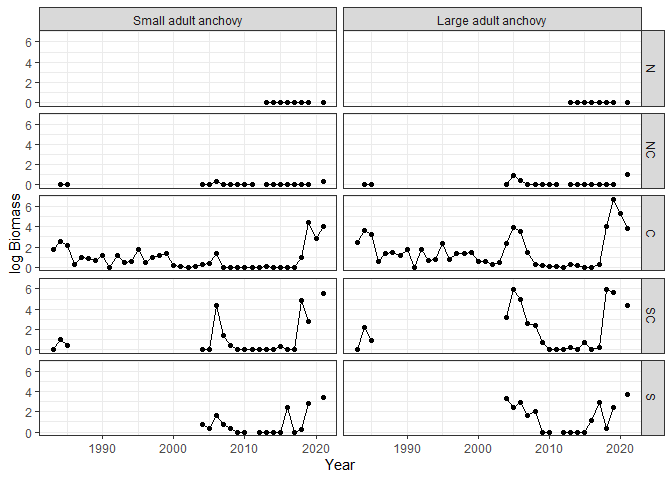
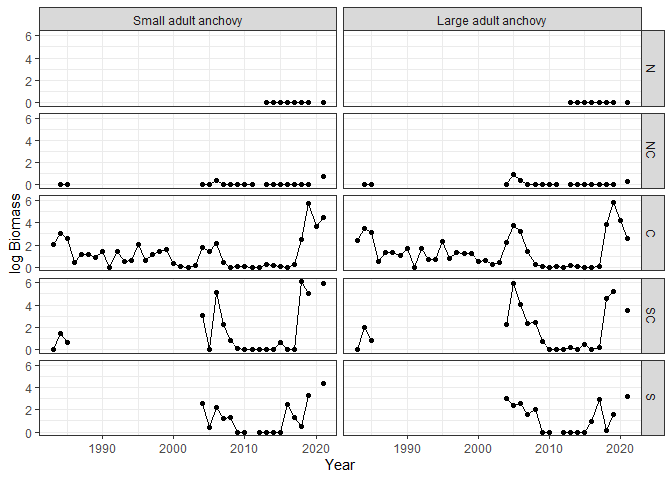
fix typos

diff --git a/README.md b/README.md
@@ -17,7 +17,7 @@ To install the latest version of the package:
 
 ``` r
 install.packages("devtools") #if required
-devtools::install_github("tanyalrogers/GPEDM")
+devtools::install_github("tanyalrogers/RREAS")
 ```
 
 ## Loading data
@@ -35,7 +35,7 @@ will be loaded to the global environment.
 
 The default behavior is to load just the RREAS data
 (`datasets = "RREAS"`), with HAULSTANDARD containing only active
-stations (`activestationsonly = T`):
+stations (`activestationsonly = TRUE`):
 
 ``` r
 library(RREAS)
@@ -50,21 +50,21 @@ ls(name = .GlobalEnv) #list objects in your workspace
 ```
 
 Currently, the krill lengths are not in the database, so must be
-supplied as a separate file. This file is *not necessary*, however,
+supplied as a separate file. This file is *not necessary* however,
 unless you want to get krill biomass or length distributions. Just omit
 this argument if you don’t have the file.
 
 To load data from multiple surveys, specify which ones under `datasets`.
 If you want to include non-active stations in HAULSTANDARD, just set
-(`activestationsonly = F`). ACTIVE is a column in HAULSTANDARD and can
-always be used to subset later.
+(`activestationsonly = FALSE`). ACTIVE is a column in HAULSTANDARD and
+can always be used to subset later.
 
 ``` r
 #replace the file paths with those for your machine
 load_mdb(mdb_path="E:/Documents/NMFS laptop/Rockfish/RREAS/Survey data/juv_cruise_backup27JAN21.mdb",
          krill_len_path="E:/Documents/NMFS laptop/Rockfish/Index generation/length weight/krill_lengths.csv",
          datasets = c("RREAS","ADAMS","PWCC","NWFSC"),
-         activestationsonly = T)
+         activestationsonly = TRUE)
 #> Data loaded.
 ls(name = .GlobalEnv) #list objects in your workspace
 #>  [1] "AGE"                "CATCH"              "CATCH_ADAMS"       
@@ -122,18 +122,18 @@ anchovytable
 #> 4     209        A Total Anchovy
 ```
 
-If you wanted to split Anchovy into two size classes, here’s how you
-might do that:
+If you wanted to split adult Anchovy into two size classes, here’s how
+you might do that:
 
 ``` r
 anchovytable_len <- data.frame(SPECIES=209, MATURITY="A",
                                NAME=c("Small adult anchovy", "Large adult anchovy"),
-                               MINLEN=c(90,110),
-                               MAXLEN=c(110,NA))
+                               MINLEN=c(90,120),
+                               MAXLEN=c(120,NA))
 anchovytable_len
 #>   SPECIES MATURITY                NAME MINLEN MAXLEN
-#> 1     209        A Small adult anchovy     90    110
-#> 2     209        A Large adult anchovy    110     NA
+#> 1     209        A Small adult anchovy     90    120
+#> 2     209        A Large adult anchovy    120     NA
 ```
 
 The package contains some pre-made species tables with common species.
@@ -217,22 +217,23 @@ the 0 represents ‘absent’ or ‘not counted’. Info can be found in the
 SPECIES\_CODES table.
 
 Biomass is only available for species with length-weight regressions.
-See `help(get_lw_regression)` for more info on the regressions are done.
-(The function `get_lw_regression` is used internally, but can be run
-independently if desired.)
+See `help(get_lw_regression)` for more info on how the regressions are
+done. (The function `get_lw_regression` is used internally, but can be
+run independently if desired.)
 
 100 day standardized abundance is only available for species with
 length-age regressions. This includes the rockfish species listed in
-`sptable_rockfish100`, hake (382) and lingcod (448). See
+`sptable_rockfish100`, hake (382), and lingcod (448). See
 `help(get_la_regression)` and `help(age_to_100day)` for more details on
 how the regressions are done. (These functions are also used internally,
 but can be run independently if desired.)
 
-If ask for “biomass” or “100day”, the output will also include TOTAL\_NO
-(abundance) and NMEAS (number of fish measured). If you include length
-constraints, the output table will include additional columns
-NMEAS\_SIZE (number measured in the size range), and NSIZE (total number
-in the size range, which is probably what you want, not TOTAL\_NO).
+If you ask for “biomass” or “100day”, the output will also include
+TOTAL\_NO (abundance) and NMEAS (number of fish measured). If you
+include length constraints, the output table will include additional
+columns NMEAS\_SIZE (number measured in the size range) and NSIZE (total
+number in the size range, which is probably what you want, not
+TOTAL\_NO).
 
 Only one table is outputted, so if you request data from multiple
 datasets, they results will be combined (column SURVEY differentiates
@@ -292,9 +293,9 @@ tail(anchovybiomass_len)
 #> 7037                 1045      C  Davenport      Y Small adult anchovy        0
 #> 7038                   65     SC  Point Sur      Y Small adult anchovy        0
 #>      NMEAS NMEAS_SIZE    NSIZE  BIOMASS
-#> 7033    19         12 308.8421 3442.570
+#> 7033    19         15 386.0526 4623.876
 #> 7034    22          0   0.0000    0.000
-#> 7035    20         12 550.8000 6401.688
+#> 7035    20         15 688.5000 8418.535
 #> 7036     0          0   0.0000    0.000
 #> 7037     0          0   0.0000    0.000
 #> 7038     0          0   0.0000    0.000
@@ -363,74 +364,74 @@ stacked in long format. See `help(get_distributions)` for more details.
 ``` r
 #Size distribution for anchovy
 anchovysizedist <- get_distributions(anchovytable, what = "size")
-tail(anchovysizedist)
-#>       SURVEY CRUISE HAUL_NO YEAR MONTH JDAY           HAUL_DATE STATION
-#> 38509  RREAS   2103     130 2021     6  159 2021-06-08 03:58:01     425
-#> 38510  RREAS   2103      22 2021     5  124 2021-05-04 22:33:18     124
-#> 38511  RREAS   2103      23 2021     5  125 2021-05-05 00:01:49     125
-#> 38512  RREAS   2103      24 2021     5  125 2021-05-05 01:41:27     126
-#> 38513  RREAS   2103      25 2021     5  125 2021-05-05 03:57:50     127
-#> 38514  RREAS   2103      26 2021     5  125 2021-05-05 21:03:12     101
-#>       NET_IN_LATDD NET_IN_LONGDD    LATDD     LONDD BOTTOM_DEPTH
-#> 38509     33.91300     -120.6992 33.91833 -120.7117         1851
-#> 38510     36.97217     -122.3608 36.98333 -122.3750          125
-#> 38511     36.97067     -122.4112 36.98333 -122.4250          286
-#> 38512     36.97233     -122.5807 36.98333 -122.5917          420
-#> 38513     36.97433     -122.7435 36.98333 -122.7583         1050
-#> 38514     36.30717     -121.9562 36.30000 -121.9383           75
-#>       STATION_BOTTOM_DEPTH STRATA       AREA ACTIVE SPECIES MATURITY
-#> 38509                 1848      S San Miguel      Y     209        Y
-#> 38510                  128      C  Davenport      Y     209        Y
-#> 38511                  446      C  Davenport      Y     209        Y
-#> 38512                  432      C  Davenport      Y     209        Y
-#> 38513                 1045      C  Davenport      Y     209        Y
-#> 38514                   65     SC  Point Sur      Y     209        Y
-#>              NAME TOTAL_NO NMEAS EXP SP_NO STD_LENGTH
-#> 38509 YOY Anchovy        0    NA  NA    NA         NA
-#> 38510 YOY Anchovy        0    NA  NA    NA         NA
-#> 38511 YOY Anchovy        0    NA  NA    NA         NA
-#> 38512 YOY Anchovy        0    NA  NA    NA         NA
-#> 38513 YOY Anchovy        0    NA  NA    NA         NA
-#> 38514 YOY Anchovy        0    NA  NA    NA         NA
+head(anchovysizedist)
+#>   SURVEY CRUISE HAUL_NO YEAR MONTH JDAY  HAUL_DATE STATION NET_IN_LATDD
+#> 1  RREAS   8303       7 1983     6  161 1983-06-10     104     36.28833
+#> 2  RREAS   8303      15 1983     6  163 1983-06-12     119     36.85500
+#> 3  RREAS   8303      17 1983     6  164 1983-06-13     114     36.76167
+#> 4  RREAS   8303      18 1983     6  164 1983-06-13     116     36.74667
+#> 5  RREAS   8303      24 1983     6  165 1983-06-14     117     36.70667
+#> 6  RREAS   8303      25 1983     6  165 1983-06-14     113     36.65333
+#>   NET_IN_LONGDD    LATDD     LONDD BOTTOM_DEPTH STATION_BOTTOM_DEPTH STRATA
+#> 1     -122.0833 36.30000 -122.0900          438                  354     SC
+#> 2     -121.9883 36.84667 -121.9833           80                   91      C
+#> 3     -121.8850 36.76667 -121.8667           82                   73      C
+#> 4     -121.9833 36.74000 -121.9767          444                  287      C
+#> 5     -122.1150 36.70000 -122.1083         1828                 1920      C
+#> 6     -122.0533 36.64667 -122.0500         1097                  900      C
+#>                   AREA ACTIVE SPECIES MATURITY          NAME TOTAL_NO NMEAS EXP
+#> 1            Point Sur      Y     209        A Adult Anchovy        0    NA  NA
+#> 2  Monterey Bay Inside      Y     209        A Adult Anchovy      268    NA 268
+#> 3  Monterey Bay Inside      Y     209        A Adult Anchovy       40    NA  40
+#> 4  Monterey Bay Inside      Y     209        A Adult Anchovy       14    NA  14
+#> 5 Monterey Bay Outside      Y     209        A Adult Anchovy        0    NA  NA
+#> 6 Monterey Bay Outside      Y     209        A Adult Anchovy        0    NA  NA
+#>   SP_NO STD_LENGTH
+#> 1    NA         NA
+#> 2    NA   119.9586
+#> 3    NA   119.9586
+#> 4    NA   119.9586
+#> 5    NA         NA
+#> 6    NA         NA
 
 #Mass distribution for different anchovy size classes
 anchovymassdist <- get_distributions(anchovytable_len, what = "mass")
 tail(anchovymassdist)
 #>       SURVEY CRUISE HAUL_NO YEAR MONTH JDAY           HAUL_DATE STATION
-#> 15034  RREAS   2103      23 2021     5  125 2021-05-05 00:01:49     125
-#> 15035  RREAS   2103      23 2021     5  125 2021-05-05 00:01:49     125
-#> 15036  RREAS   2103      23 2021     5  125 2021-05-05 00:01:49     125
-#> 15037  RREAS   2103      24 2021     5  125 2021-05-05 01:41:27     126
-#> 15038  RREAS   2103      25 2021     5  125 2021-05-05 03:57:50     127
-#> 15039  RREAS   2103      26 2021     5  125 2021-05-05 21:03:12     101
+#> 14954  RREAS   2103      23 2021     5  125 2021-05-05 00:01:49     125
+#> 14955  RREAS   2103      23 2021     5  125 2021-05-05 00:01:49     125
+#> 14956  RREAS   2103      23 2021     5  125 2021-05-05 00:01:49     125
+#> 14957  RREAS   2103      24 2021     5  125 2021-05-05 01:41:27     126
+#> 14958  RREAS   2103      25 2021     5  125 2021-05-05 03:57:50     127
+#> 14959  RREAS   2103      26 2021     5  125 2021-05-05 21:03:12     101
 #>       NET_IN_LATDD NET_IN_LONGDD    LATDD     LONDD BOTTOM_DEPTH
-#> 15034     36.97067     -122.4112 36.98333 -122.4250          286
-#> 15035     36.97067     -122.4112 36.98333 -122.4250          286
-#> 15036     36.97067     -122.4112 36.98333 -122.4250          286
-#> 15037     36.97233     -122.5807 36.98333 -122.5917          420
-#> 15038     36.97433     -122.7435 36.98333 -122.7583         1050
-#> 15039     36.30717     -121.9562 36.30000 -121.9383           75
+#> 14954     36.97067     -122.4112 36.98333 -122.4250          286
+#> 14955     36.97067     -122.4112 36.98333 -122.4250          286
+#> 14956     36.97067     -122.4112 36.98333 -122.4250          286
+#> 14957     36.97233     -122.5807 36.98333 -122.5917          420
+#> 14958     36.97433     -122.7435 36.98333 -122.7583         1050
+#> 14959     36.30717     -121.9562 36.30000 -121.9383           75
 #>       STATION_BOTTOM_DEPTH STRATA      AREA ACTIVE SPECIES MATURITY
-#> 15034                  446      C Davenport      Y     209        A
-#> 15035                  446      C Davenport      Y     209        A
-#> 15036                  446      C Davenport      Y     209        A
-#> 15037                  432      C Davenport      Y     209        A
-#> 15038                 1045      C Davenport      Y     209        A
-#> 15039                   65     SC Point Sur      Y     209        A
+#> 14954                  446      C Davenport      Y     209        A
+#> 14955                  446      C Davenport      Y     209        A
+#> 14956                  446      C Davenport      Y     209        A
+#> 14957                  432      C Davenport      Y     209        A
+#> 14958                 1045      C Davenport      Y     209        A
+#> 14959                   65     SC Point Sur      Y     209        A
 #>                      NAME TOTAL_NO NMEAS NMEAS_SIZE  EXP PSIZE NSIZE SP_NO
-#> 15034 Small adult anchovy      918    20         12 45.9   0.6 550.8  6515
-#> 15035 Small adult anchovy      918    20         12 45.9   0.6 550.8  6516
-#> 15036 Small adult anchovy      918    20         12 45.9   0.6 550.8  6517
-#> 15037 Small adult anchovy        0    NA         NA   NA    NA   0.0    NA
-#> 15038 Small adult anchovy        0    NA         NA   NA    NA   0.0    NA
-#> 15039 Small adult anchovy        0    NA         NA   NA    NA   0.0    NA
+#> 14954 Small adult anchovy      918    20         15 45.9  0.75 688.5  6516
+#> 14955 Small adult anchovy      918    20         15 45.9  0.75 688.5  6517
+#> 14956 Small adult anchovy      918    20         15 45.9  0.75 688.5  6518
+#> 14957 Small adult anchovy        0    NA         NA   NA    NA   0.0    NA
+#> 14958 Small adult anchovy        0    NA         NA   NA    NA   0.0    NA
+#> 14959 Small adult anchovy        0    NA         NA   NA    NA   0.0    NA
 #>       STD_LENGTH   WEIGHT
-#> 15034        105 12.10997
-#> 15035        103 11.34121
-#> 15036        105 12.10997
-#> 15037         NA       NA
-#> 15038         NA       NA
-#> 15039         NA       NA
+#> 14954        103 11.34121
+#> 14955        105 12.10997
+#> 14956        110 14.19203
+#> 14957         NA       NA
+#> 14958         NA       NA
+#> 14959         NA       NA
 
 #rockfish age distributions
 rockfish100agedist <- get_distributions(sptable_rockfish100, what = "age")
@@ -477,7 +478,9 @@ tail(rockfish100agedist)
 Given an output table from `get_totals`, there is a function
 `get_logcpueindex` which will compute `mean(log(x+1))` for an `x` of
 your choice, for each YEAR and NAME. It allows optional grouping
-variables (typically STRATA).
+variables (typically STRATA). A standardized index (within groups) is
+also computed by default, but can be turned off by setting
+`standardized=FALSE`.
 
 ``` r
 library(ggplot2)
@@ -509,12 +512,12 @@ ggplot(anchovyindex1plot,aes(y=TOTAL_NO_INDEX,x=YEAR)) +
 anchovyindex2 <- get_logcpueindex(anchovybiomass_len, var = "BIOMASS", group="STRATA")
 head(anchovyindex2)
 #>                  NAME STRATA YEAR BIOMASS_INDEX BIOMASS_INDEX_SC
-#> 1 Small adult anchovy      C 1983     1.7496052       0.80777436
-#> 2 Small adult anchovy      C 1984     2.5726484       1.55324030
-#> 3 Small adult anchovy      C 1985     2.1377010       1.15928957
-#> 4 Small adult anchovy      C 1986     0.3226575      -0.48467414
-#> 5 Small adult anchovy      C 1987     0.9774884       0.10843466
-#> 6 Small adult anchovy      C 1988     0.9197939       0.05617827
+#> 1 Small adult anchovy      C 1983     2.0613810       0.66499025
+#> 2 Small adult anchovy      C 1984     3.0168360       1.37970873
+#> 3 Small adult anchovy      C 1985     2.6174411       1.08094535
+#> 4 Small adult anchovy      C 1986     0.4256878      -0.55857346
+#> 5 Small adult anchovy      C 1987     1.1512273      -0.01584101
+#> 6 Small adult anchovy      C 1988     1.1424928      -0.02237477
 
 anchovyindex2plot <- anchovyindex2 %>% 
   #filter(!(YEAR<2004 & STRATA!="C")) %>% #exclude non-core areas before 2004
